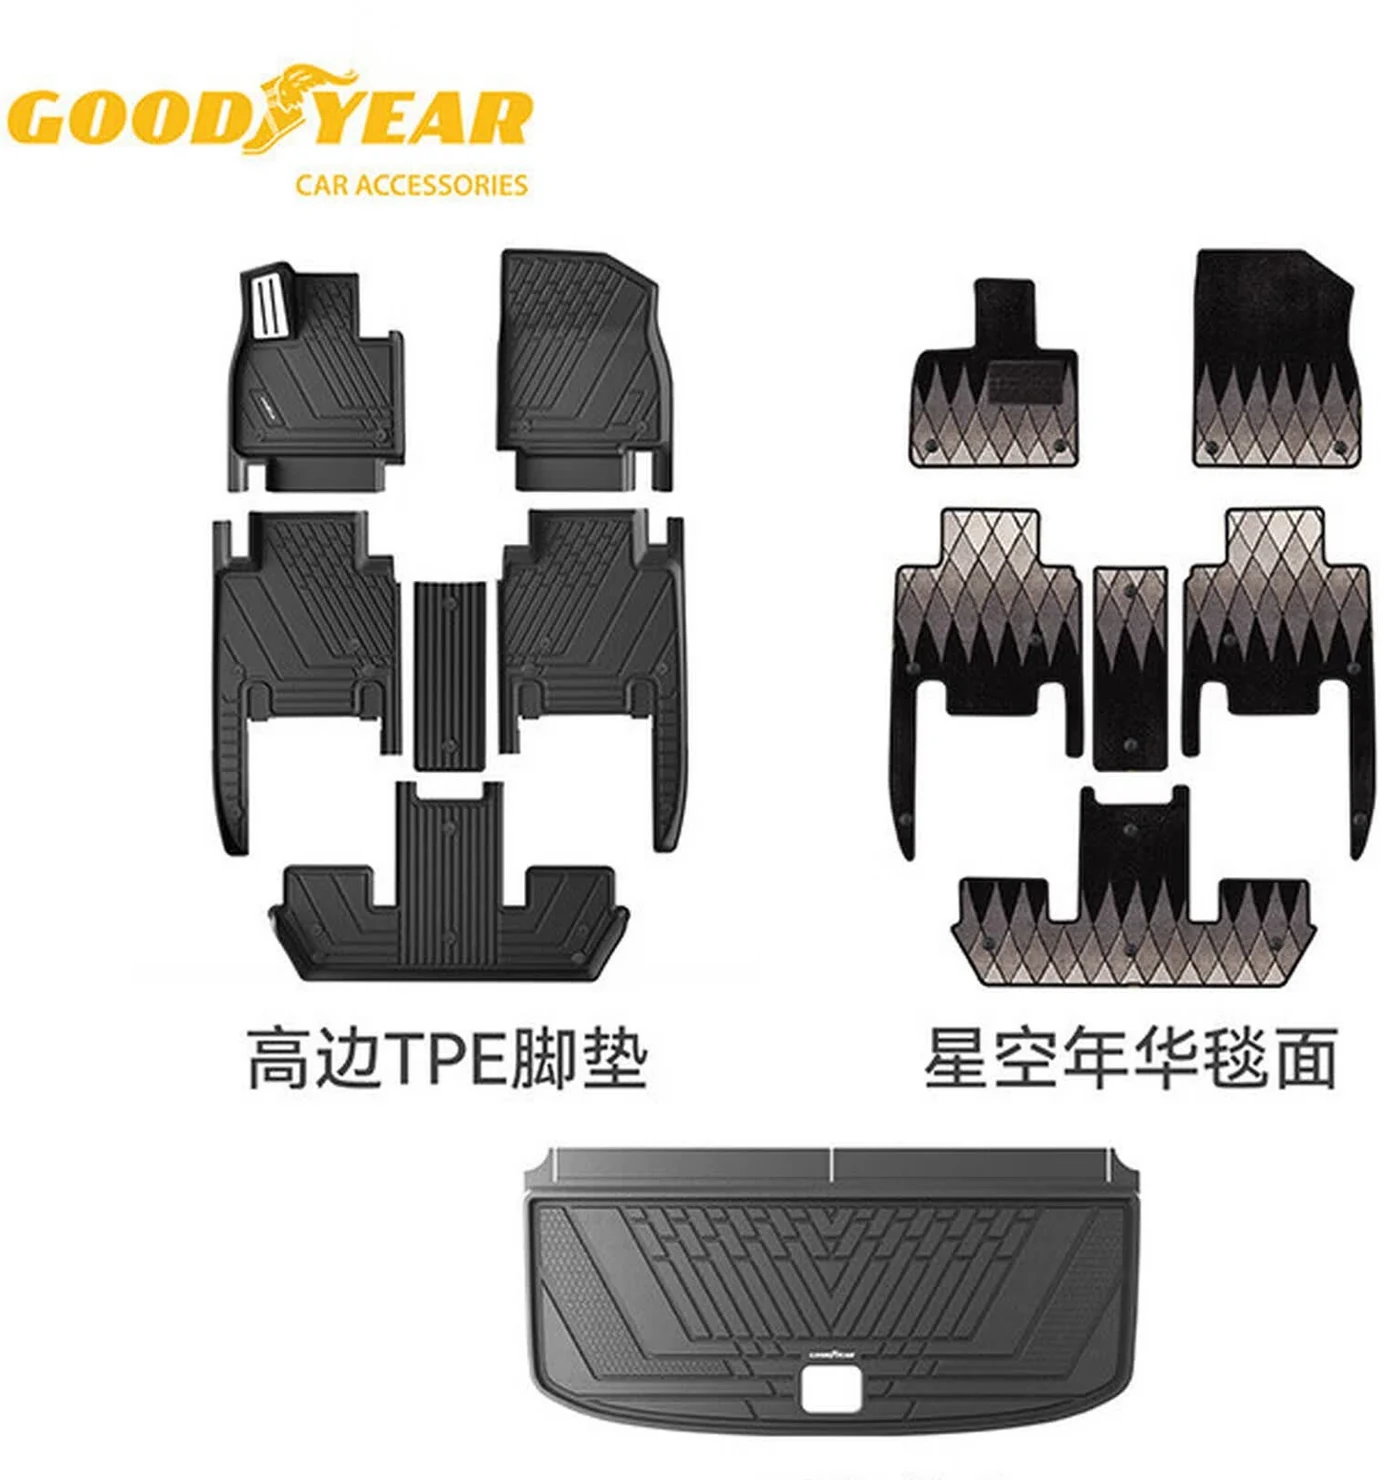
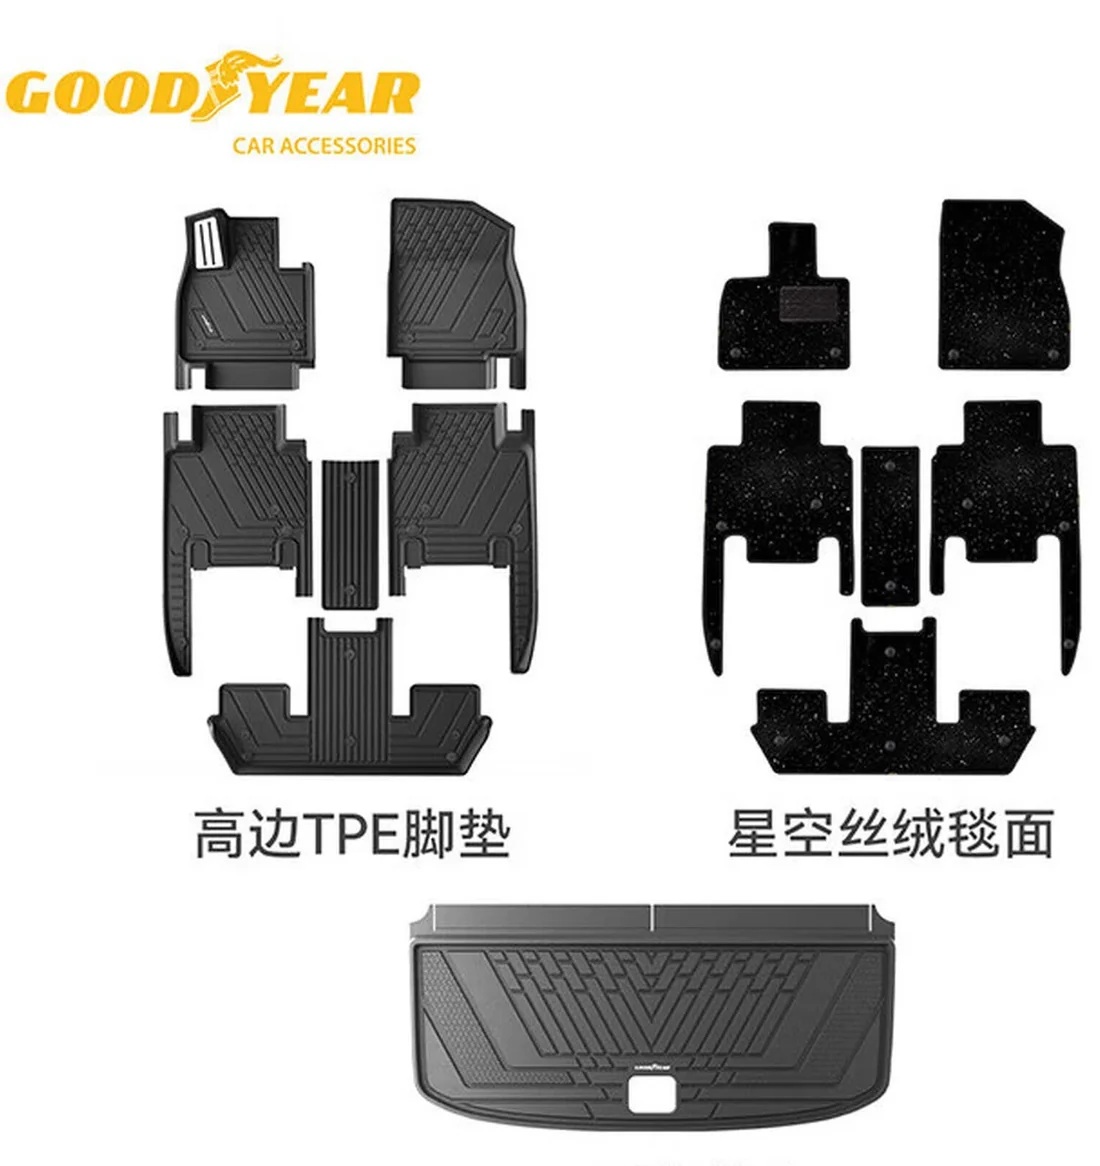
换车型三件事：点车型条直接跳回这台车的开头（原来停在原处、价格又没变，客人以为没点上）；顶部滑出「已切换到 iX」回执条，附「回到刚才那一段」一键回去；胶囊弹一下 + 车型条扫金线 + 内容上浮淡入。配置单改按车型分桶：i6 的配件和 i8 的配件可以同时在一张单里，开头分段写车型与小计，删行/复制/清空都按车型分得清，七款脚垫价仍各算各的；顺手在空闲/鼠标移到车型条时预取六张 hero 图（省流 2G 跳过），加载间隙给深色底加一道流光，不再像图坏了

diff --git a/solar-gard/index.html b/solar-gard/index.html
@@ -511,6 +511,13 @@ a{ color:inherit; text-decoration:none; }
 .ms-chip:hover .ms-th img{ transform:scale(1.04); }
 .ms-chip .ms-nm{ display:block; font-size:12px; font-weight:500; color:var(--ink); padding:8px 4px 1px; letter-spacing:.02em; }
 .ms-chip .ms-tx{ display:block; font-size:10.5px; color:var(--sub2); padding:0 4px 9px; }
+/* 主推款：星空丝绒是老板主推的，chip 上加个小角标，不靠位置说话 */
+.ms-chip.is-main{ background:#FFFDF6; }
+.ms-chip .ms-nm .ms-main{
+  font-style:normal; font-size:9px; font-weight:600; letter-spacing:.06em; line-height:15px;
+  color:#8A6A2E; background:#F4EBD7; border:1px solid #E4D7B7; border-radius:3px;
+  padding:0 4px; margin-left:5px; display:inline-block; vertical-align:1px;
+}
 .ms-chip.on{ border-color:var(--ink); box-shadow:inset 0 0 0 1px var(--ink); }
 .ms-chip.on .ms-nm::before{ content:"✓ "; color:#8A6A2E; }
 .ms-chip.on .ms-tx{ color:#8A6A2E; }
@@ -3463,17 +3470,17 @@ const MAT_LADDER = {
 const MAT_SET = {
   /* price = 本店整车整套含装车价，直接取上面实测同款市场价，不再统一 */
   i6:  { n:12, mats:'纯 TPE 原色 · 毯面可另配', yr:'26 款', price:1488, ref:'¥1,488' },
-  i8:  { n:11, mats:'星空年华毯 黑', yr:'25–26 款', price:1939, ref:'¥1,939' },
+  i8:  { n:11, mats:'星空丝绒毯 黑', yr:'25–26 款', price:1939, ref:'¥1,939' },
   i9:  { n:13, mats:'纯 TPE 原色 · 毯面可另配', yr:'26 款', price:1692, ref:'¥1,692' },
-  l6:  { n:9,  mats:'星空年华毯 黑', yr:'24–25 款', price:1859, ref:'¥1,859' },
-  l8:  { n:11, mats:'星空年华毯 黑', yr:'23–25 款', price:1959, ref:'¥1,959' },
+  l6:  { n:9,  mats:'星空丝绒毯 黑', yr:'24–25 款', price:1859, ref:'¥1,859' },
+  l8:  { n:11, mats:'星空丝绒毯 黑', yr:'23–25 款', price:1959, ref:'¥1,959' },
   l9:  { n:13, mats:'纯 TPE 原色 · 毯面可另配', yr:'26 款', price:1177, ref:'¥1,177' },
   /* MEGA 26 款：品牌方给的是「全包脚垫」（360 航空软包，整车铺到侧壁与座椅下），
      不是此前误记的「原车专属毯面」—— 2026-11-14 按官方物料更正，价格同步重算 */
   mega:{ n:0,  mats:'360 全包 · 仿羊绒', yr:'26 款', price:3389, ref:'¥3,389',
     title:'全包脚垫',
     spec:'360 航空软包 · 整车一趟铺到侧壁与座椅下<br>原车 3D 扫描开模 · 免拆座椅安装',
-    matsLine:'<b>仿羊绒 / 星空年华 表层 可选</b>',
+    matsLine:'<b>仿羊绒 / 菱格 表层 可选</b>',
     tags:['整车全包 · 无接缝'],
     note:'',
     gift:'买全包脚垫 · 即送全车硅胶套装 + 配件' }
@@ -3594,8 +3601,8 @@ function tierHasMats(t, mid = state.model){
    存在 asset/mats/style/{车型}_{款式}.webp）。四款对应同一套垫体，只换毯面。
    注意：这里只换款式与图，件数与价格一律不动；换毯面的价差写「到店核」，不编价。 */
 const MAT_STYLES = [
-  { k:'星空年华', sw:'nianhua',  tx:'菱格 · 主推' },
-  { k:'星空丝绒', sw:'sirong',   tx:'星空点阵' },
+  { k:'星空丝绒', sw:'sirong',   tx:'星空点阵', m:1 },
+  { k:'星空年华', sw:'nianhua',  tx:'菱格纹' },
   { k:'黛尼斯',   sw:'denis',    tx:'细密网格' },
   { k:'仿羊绒',   sw:'yangrong', tx:'素绒面' }
 ];
@@ -3603,14 +3610,18 @@ const MAT_STYLE_KEYS = MAT_STYLES.map(s => s.k);
 /* MEGA 没有这套款式图（京东该系列无 MEGA SKU），先不给选，免得点下去换不出图 */
 const MAT_STYLE_MIDS = ['i6','i8','i9','l6','l8','l9'];
 const hasMatStyle = (mid = state.model) => MAT_STYLE_MIDS.includes(mid);
+/* 星空丝绒是主推款：没选过的车型一律先出它 */
+const MAT_STYLE_DEFAULT = '星空丝绒';
 function matStyleOf(mid = state.model){
   const want = state.matStyle[mid];
-  return MAT_STYLE_KEYS.includes(want) ? want : '星空年华';
+  return MAT_STYLE_KEYS.includes(want) ? want : MAT_STYLE_DEFAULT;
 }
 function matStyleImg(mid = state.model, st = matStyleOf(mid)){
   return `asset/mats/style/${mid}_${st}.webp`;
 }
 function matStyleTx(st){ const s = MAT_STYLES.find(x => x.k === st); return s ? s.tx : ''; }
+const matStyleMain = st => { const s = MAT_STYLES.find(x => x.k === st); return !!(s && s.m); };
+function matStyleNow(st){ return `${st} · ${matStyleTx(st)}${matStyleMain(st) ? ' · 主推' : ''}`; }
 
 /* 内页里点毯面：只换图与选中态，不重画整页 —— 重画会让大图白一下，也丢滚动位置 */
 function pickMatStyle(k){
@@ -3631,7 +3642,7 @@ function pickMatStyle(k){
       c.setAttribute('aria-pressed', String(on));
     });
     const now = bd.querySelector('#msNow');
-    if (now) now.textContent = `${k} · ${matStyleTx(k)}`;
+    if (now) now.textContent = matStyleNow(k);
     const nm = bd.querySelector('.addon-spec .ms-name');
     if (nm) nm.textContent = `${k}毯面`;
   }
@@ -4162,19 +4173,19 @@ function bigCard(a, detail){
         <div class="mat-style">
           <div class="ms-hd">
             <b>毯面款式</b>
-            <span class="ms-now" id="msNow">${sty} · ${matStyleTx(sty)}</span>
+            <span class="ms-now" id="msNow">${matStyleNow(sty)}</span>
           </div>
           <div class="ms-row" role="group" aria-label="毯面款式选择">
             ${MAT_STYLES.map(s => `
-            <button type="button" class="ms-chip${s.k === sty ? ' on' : ''}" data-matstyle="${s.k}" aria-pressed="${s.k === sty}">
+            <button type="button" class="ms-chip${s.k === sty ? ' on' : ''}${s.m ? ' is-main' : ''}" data-matstyle="${s.k}" aria-pressed="${s.k === sty}">
               <span class="ms-th"><img src="asset/mats/style/sw/${s.sw}.webp" alt="${s.k}毯面纹理" loading="eager" decoding="async"></span>
-              <b class="ms-nm">${s.k}</b><span class="ms-tx">${s.tx}</span>
+              <b class="ms-nm">${s.k}${s.m ? '<i class="ms-main">主推</i>' : ''}</b><span class="ms-tx">${s.tx}</span>
             </button>`).join('')}
           </div>
-          <p class="ms-note">四款是同一套垫体换毯面，<b>件数不变</b>；换款式的价差到店按实车核，图上为整车整套。</p>
+          <p class="ms-note"><b>主推星空丝绒</b>（图上默认这套），另三款是同一套垫体换毯面，<b>件数不变</b>；换款式的价差到店按实车核，图上为整车整套。</p>
         </div>` : ''}
         <div class="addon-body">
-          <div class="addon-k">${a.brand}<span class="hi-tag">主推 · 送硅胶套装 + 配件</span></div>
+          <div class="addon-k">${a.brand}<span class="hi-tag">${hasMatStyle(mid) ? '主推 星空丝绒 · ' : ''}送硅胶套装 + 配件</span></div>
           <div class="addon-name">${aName}<u class="set-n">${curModel().name} · ${nTxt}</u></div>
           <div class="addon-spec">${megaOnly || hasMats
             ? (matsName ? `本款配 <b class="ms-name">${matsName}</b>${ms.yr ? ' · ' + ms.yr : ''}<br>` : '')
@@ -4228,7 +4239,7 @@ function bigCard(a, detail){
           }).join('')}
         </div>
         <p class="mtier-note">${isMats
-          ? '价格为固特异官方在售价；360 全包整车一趟铺到底，表层仿羊绒 / 星空年华可选。本店含装车，并赠全车硅胶套装。'
+          ? '价格为固特异官方在售价；360 全包整车一趟铺到底，表层仿羊绒 / 菱格可选。本店含装车，并赠全车硅胶套装。'
           : `本店只做整车整套：<b>¥${ms && ms.price ? ms.price.toLocaleString('en-US') : '—'}</b> 含装车，赠全车硅胶套装。价格按车型单独核定（同款同件套，各车型实价本来就不一样），不是全系一口价。只做整车整套，不拆件套单卖 —— 拆开就不送配件了。`}</p>
       </div>`;
       })()}
@@ -4351,7 +4362,7 @@ function miniCard(a){
     tbd = tPrice == null;
     price = tbd ? 0 : px(tPrice);
     /* 卡上先写一句「4 款毯面可选」：不然客人不知道点进去能挑款式 */
-    sub = `${curModel().name} · ${nTxt} · 含装车${hasMatStyle(mid) ? ' · 4 款毯面可选' : ''}`;
+    sub = `${curModel().name} · ${nTxt} · 含装车${hasMatStyle(mid) ? ' · 星空丝绒 · 4 款可选' : ''}`;
     badge = nTxt;
   } else {
     const opt = curSeatKind();
